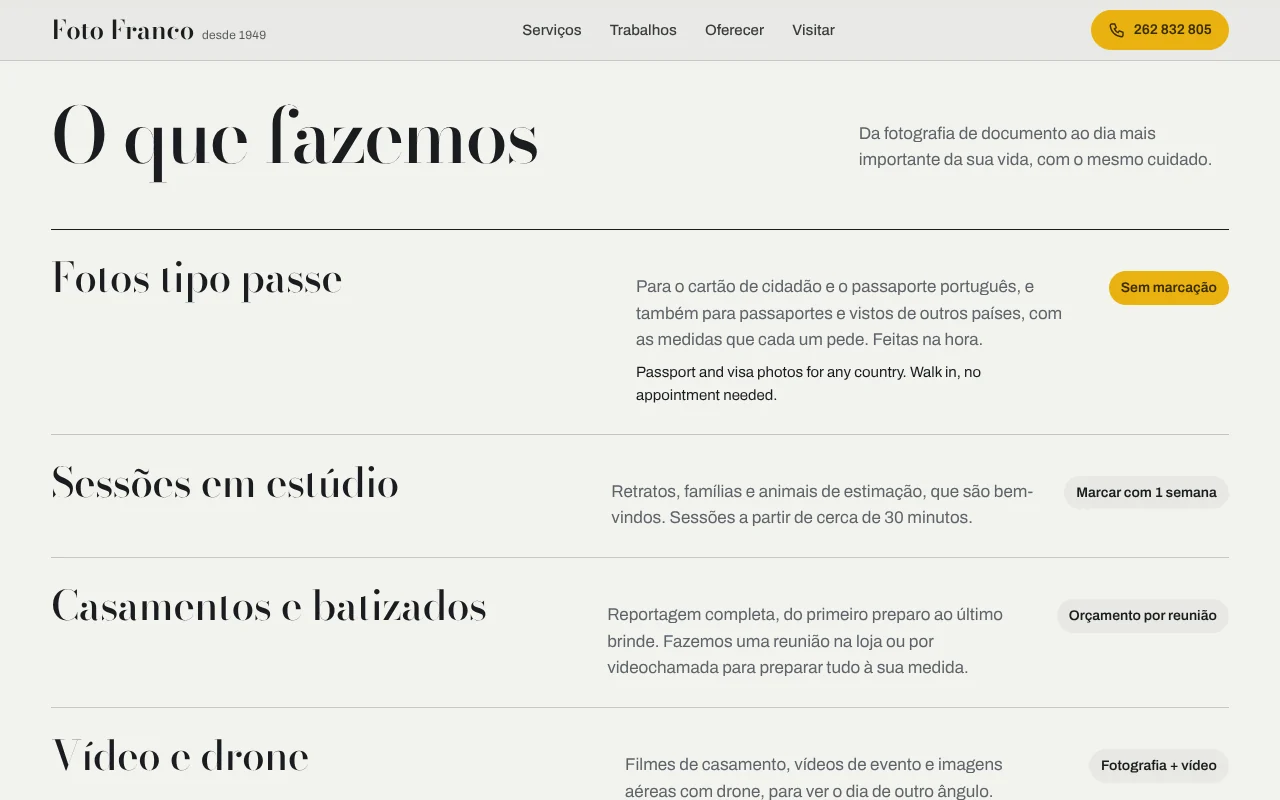
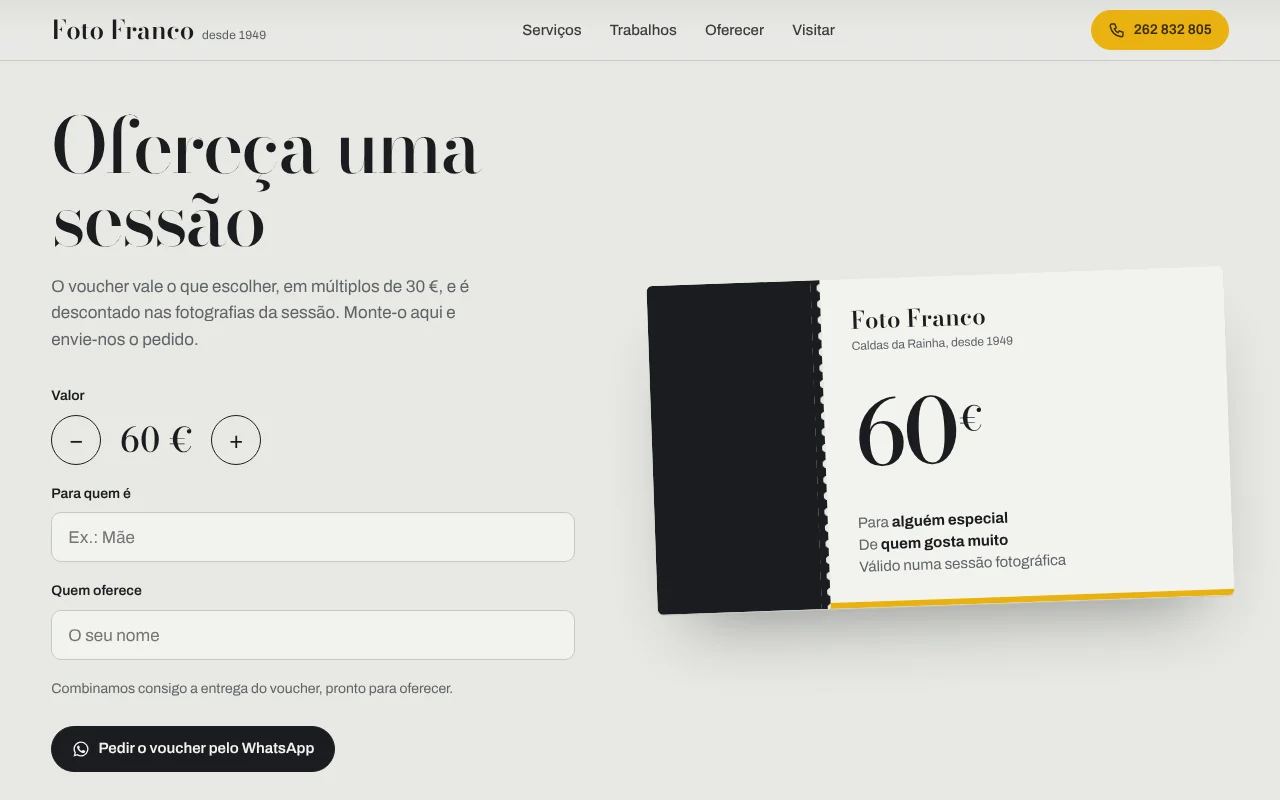
Projects morph into each other on scroll (picture opens from a dot, text dissolves); Foto Franco shows the camera screen and voucher
Claude-Session: https://claude.ai/code/session_01PDHn68fRHhHHsaVxhQ7jqf

diff --git a/assets/site.js b/assets/site.js
@@ -314,16 +314,26 @@ void main(){
       const parts = sec.querySelectorAll("[data-in]");
       M.inView(sec, () => { M.animate(parts, { opacity: [0, 1], y: [24, 0] }, { duration: 0.7, ease: [0.22, 1, 0.36, 1], delay: M.stagger(0.08) }); }, { amount: 0.2 });
     });
-    // project pictures open like a shutter while the picture settles back, so each topic arrives instead of just scrolling past
-    document.querySelectorAll("[data-reveal]").forEach((fig) => {
-      M.inView(fig.parentElement, () => {   // watch the panel: a fully clipped picture never counts as "in view"
-        const ease = [0.22, 1, 0.36, 1];
-        M.animate(fig, { clipPath: ["inset(0 0 100% 0)", "inset(0 0 0% 0)"] }, { duration: 0.9, ease });
-        const pic = fig.classList.contains("duo") ? null : fig.querySelector("img, video"), inset = fig.querySelector(".inset");
-        if (pic) M.animate(pic, { scale: [1.14, 1] }, { duration: 1.4, ease });
-        if (inset) M.animate(inset, { opacity: [0, 1], y: [36, 0] }, { duration: 0.7, ease, delay: 0.4 });
-      }, { amount: 0.25 });
-    });
+    // morph between topics, tied to the scroll: each picture opens from a star-sized dot into the full frame as it nears the
+    // middle of the screen and closes back to a dot as it leaves, while its text dissolves. With the colour blend behind,
+    // one topic turns into the next instead of sliding past.
+    const morphs = [...document.querySelectorAll("[data-reveal]")].map((fig) => ({ fig, text: fig.parentElement.querySelector(".proj-text") }));
+    if (morphs.length) {
+      const ease = (t) => t * t * (3 - 2 * t), amt = (el, vh, a, b) => { const r = el.getBoundingClientRect(); return [ease(clamp01(1 - (Math.abs(r.top + r.height / 2 - vh / 2) / vh - a) / (b - a))), r]; };
+      let tick = 0;
+      const paint = () => {
+        tick = 0; const vh = innerHeight;
+        morphs.forEach(({ fig, text }) => {
+          const pr = fig.parentElement.getBoundingClientRect();
+          if (pr.bottom < 0 || pr.top > vh) { fig.style.clipPath = "none"; if (text) { text.style.opacity = ""; text.style.transform = "none"; } return; }   // off screen: rest open, so print and full-page captures are whole
+          const [e, r] = amt(fig, vh, 0.2, 0.62), k = 1 - e;
+          fig.style.clipPath = e > 0.999 ? "none" : `inset(${((r.height / 2 - 9) * k).toFixed(1)}px ${((r.width / 2 - 9) * k).toFixed(1)}px round ${(Math.min(r.width, r.height) / 2 * k).toFixed(1)}px)`;
+          if (text) { const [t] = amt(text, vh, 0.34, 0.62); text.style.opacity = t.toFixed(3); text.style.transform = t > 0.999 ? "none" : `translateY(${((1 - t) * 28 * (text.getBoundingClientRect().top > vh / 2 ? 1 : -1)).toFixed(1)}px)`; }
+        });
+      };
+      const ask = () => { if (!tick) tick = requestAnimationFrame(paint); };
+      addEventListener("scroll", ask, { passive: true }); addEventListener("resize", ask); paint();
+    }
     const intro = document.querySelectorAll(".hero-say > *, .nav:not(.dark) a");
     if (intro.length) M.animate(intro, { opacity: [0, 1] }, { duration: 0.6, ease: [0.22, 1, 0.36, 1], delay: M.stagger(0.08, { startDelay: 0.1 }) });
   } else {

diff --git a/index.html b/index.html
@@ -115,10 +115,10 @@ temporary  guest.example       14 days</pre></figure>
     <div class="proj-text">
       <h3 data-in>Websites</h3>
       <p data-in class="kind">Web design · For local shops</p>
-      <p data-in class="desc">One page, made by hand, quick on a phone, with one moment people remember. Shown here: our design for Foto Franco, a photo studio in Caldas da Rainha since 1949.</p>
+      <p data-in class="desc">One page, made by hand, quick on a phone, with one moment people remember. Here the page is a camera: click and it takes the picture. Our design for Foto Franco, a photo studio in Caldas da Rainha since 1949.</p>
       <a data-in class="btn" href="mailto:wildlogiclda@gmail.com">Ask for a website</a>
     </div>
-    <figure class="proj-media duo wide" data-reveal><img src="assets/img/web-fotofranco.webp" width="1280" height="724" alt="The Foto Franco site: a big 1949 and a few lines about the studio, in Portuguese" loading="lazy"><img class="inset" src="assets/img/web-fotofranco-2.webp" width="1280" height="800" alt="The services list on the Foto Franco site" loading="lazy"></figure>
+    <figure class="proj-media duo wide" data-reveal><img src="assets/img/web-fotofranco.webp" width="1280" height="724" alt="The Foto Franco site opens like a camera viewfinder, with focus marks, exposure numbers and a shutter button" loading="lazy"><img class="inset" src="assets/img/web-fotofranco-2.webp" width="1280" height="800" alt="A gift voucher you build on the Foto Franco site" loading="lazy"></figure>
   </article>
 </div>
 

diff --git a/assets/site.css b/assets/site.css
@@ -130,7 +130,6 @@ h1, h2, h3 { margin: 0; font-weight: 600; letter-spacing: -0.04em; line-height: 
 .js .projects { background: #17102a; transition: background-color 700ms linear; }
 .js .proj { background: transparent; }
 .proj-media:not(.duo) { overflow: hidden; }
-.js.motion [data-reveal] { clip-path: inset(0 0 100% 0); }
 .duo { position: relative; padding: 0 8% 11% 0; }
 .proj .duo img { aspect-ratio: 1178 / 666; }
 .proj .duo.wide img { aspect-ratio: 1280 / 724; } .proj .duo.wide .inset { aspect-ratio: 1280 / 800; }

diff --git a/build.py b/build.py
@@ -150,10 +150,10 @@ temporary  guest.example       14 days</pre></figure>
     <div class="proj-text">
       <h3 data-in>Websites</h3>
       <p data-in class="kind">Web design · For local shops</p>
-      <p data-in class="desc">One page, made by hand, quick on a phone, with one moment people remember. Shown here: our design for Foto Franco, a photo studio in Caldas da Rainha since 1949.</p>
+      <p data-in class="desc">One page, made by hand, quick on a phone, with one moment people remember. Here the page is a camera: click and it takes the picture. Our design for Foto Franco, a photo studio in Caldas da Rainha since 1949.</p>
       <a data-in class="btn" href="mailto:{{EMAIL}}">Ask for a website</a>
     </div>
-    <figure class="proj-media duo wide" data-reveal><img src="assets/img/web-fotofranco.webp" width="1280" height="724" alt="The Foto Franco site: a big 1949 and a few lines about the studio, in Portuguese" loading="lazy"><img class="inset" src="assets/img/web-fotofranco-2.webp" width="1280" height="800" alt="The services list on the Foto Franco site" loading="lazy"></figure>
+    <figure class="proj-media duo wide" data-reveal><img src="assets/img/web-fotofranco.webp" width="1280" height="724" alt="The Foto Franco site opens like a camera viewfinder, with focus marks, exposure numbers and a shutter button" loading="lazy"><img class="inset" src="assets/img/web-fotofranco-2.webp" width="1280" height="800" alt="A gift voucher you build on the Foto Franco site" loading="lazy"></figure>
   </article>
 </div>
 
